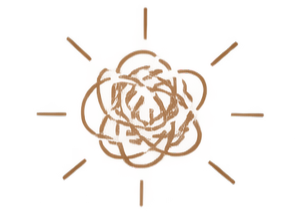
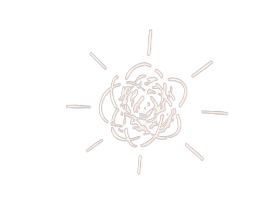
Service-specific pricing titles, remove hover animation, optimize doodle images

diff --git a/src/pages/ServiceDetail.tsx b/src/pages/ServiceDetail.tsx
@@ -39,6 +39,8 @@ const ServiceDetail = () => {
     const { slug } = useParams();
     const service = services.find((s) => s.slug === slug);
     const category = service ? pricingCategories.find((c) => c.id === service.pricingCategoryId) : undefined;
+    const pricingTitle = service && service.pricingCategoryId === 'homemakers-students' ? service.title : undefined;
+    const pricingNote = service?.pricingNote;
 
     useEffect(() => {
         window.scrollTo(0, 0);
@@ -84,7 +86,6 @@ const ServiceDetail = () => {
                             whileInView={{ opacity: 1, y: -50 }}
                             viewport={{ once: true }}
                             transition={{ duration: 0.7, delay: 0.15 }}
-                            whileHover={{ y: -2 }}
                             whileTap={{ y: 0 }}
                         >
                             Book Your First Session <ArrowRight size={18} aria-hidden="true" />
@@ -105,7 +106,7 @@ const ServiceDetail = () => {
                         >
                             Pricing
                         </motion.h2>
-                        <PricingPlans category={category} />
+                        <PricingPlans category={category} title={pricingTitle} note={pricingNote} />
                     </div>
                 </section>
             )}

diff --git a/src/components/PricingPlans.tsx b/src/components/PricingPlans.tsx
@@ -7,9 +7,11 @@ const formatINR = (value: number) => '₹' + value.toLocaleString('en-IN');
 
 interface PricingPlansProps {
     category: PricingCategory;
+    title?: string;
+    note?: string;
 }
 
-const PricingPlans = ({ category }: PricingPlansProps) => (
+const PricingPlans = ({ category, title, note }: PricingPlansProps) => (
     <motion.div
         className="pricing-block"
         initial={{ opacity: 0, y: 24 }}
@@ -19,8 +21,8 @@ const PricingPlans = ({ category }: PricingPlansProps) => (
     >
         <div className="pricing-block-head">
             <div>
-                <p className="pricing-block-note">{category.note}</p>
-                <h2 className="pricing-block-title">{category.title}</h2>
+                <p className="pricing-block-note">{note ?? category.note}</p>
+                <h2 className="pricing-block-title">{title ?? category.title}</h2>
             </div>
             <div className="pricing-fee-chip">
                 <span className="pricing-fee-label">Per session</span>

diff --git a/src/data/servicesData.ts b/src/data/servicesData.ts
@@ -3,6 +3,7 @@ export interface Service {
     title: string;
     description: string;
     pricingCategoryId: string;
+    pricingNote?: string;
 }
 
 export const services: Service[] = [
@@ -26,6 +27,7 @@ export const services: Service[] = [
         description:
             'Support for students navigating exam anxiety, academic pressure, career uncertainty, self-esteem, procrastination, and the emotional challenges that come with growing up and finding your place.',
         pricingCategoryId: 'homemakers-students',
+        pricingNote: 'For students',
     },
     {
         slug: 'therapy-for-homemakers',
@@ -33,5 +35,6 @@ export const services: Service[] = [
         description:
             'A space for homemakers navigating life transitions, relationship and family dynamics, identity beyond caregiving, emotional overwhelm, and balancing personal needs with everyday responsibilities.',
         pricingCategoryId: 'homemakers-students',
+        pricingNote: 'For homemakers',
     },
 ];
